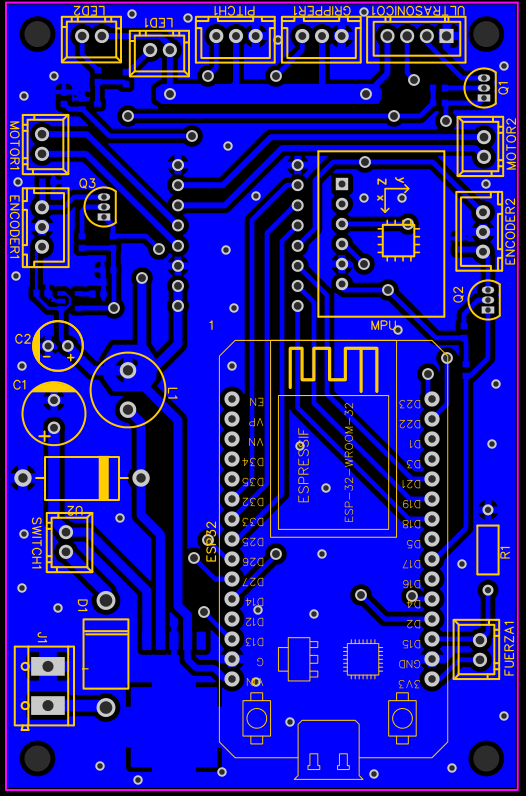
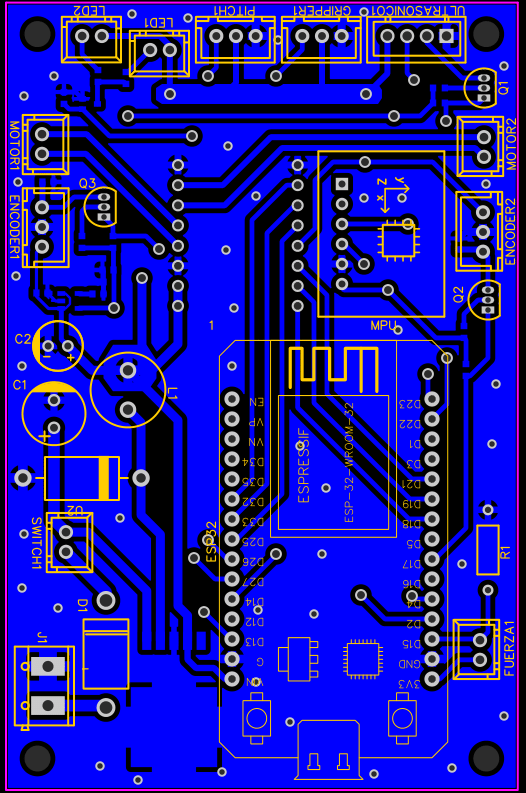
e

diff --git a/README.md b/README.md
@@ -84,7 +84,7 @@ The main PCB managed power distribution to all sensors, the onboard computer, th
 </p>
 <p align="center">
   <img src="./usv/principal/principal_realtop.png" alt="PCB real top" width="300" />
-  <img src="./usv/principal/principal_realbottom.png" alt="PCB real" width="400" />
+  <img src="./usv/principal/principal_realbottom.png" alt="PCB real" width="350" />
 </p>
 
 ### 📡 Communication PCB
